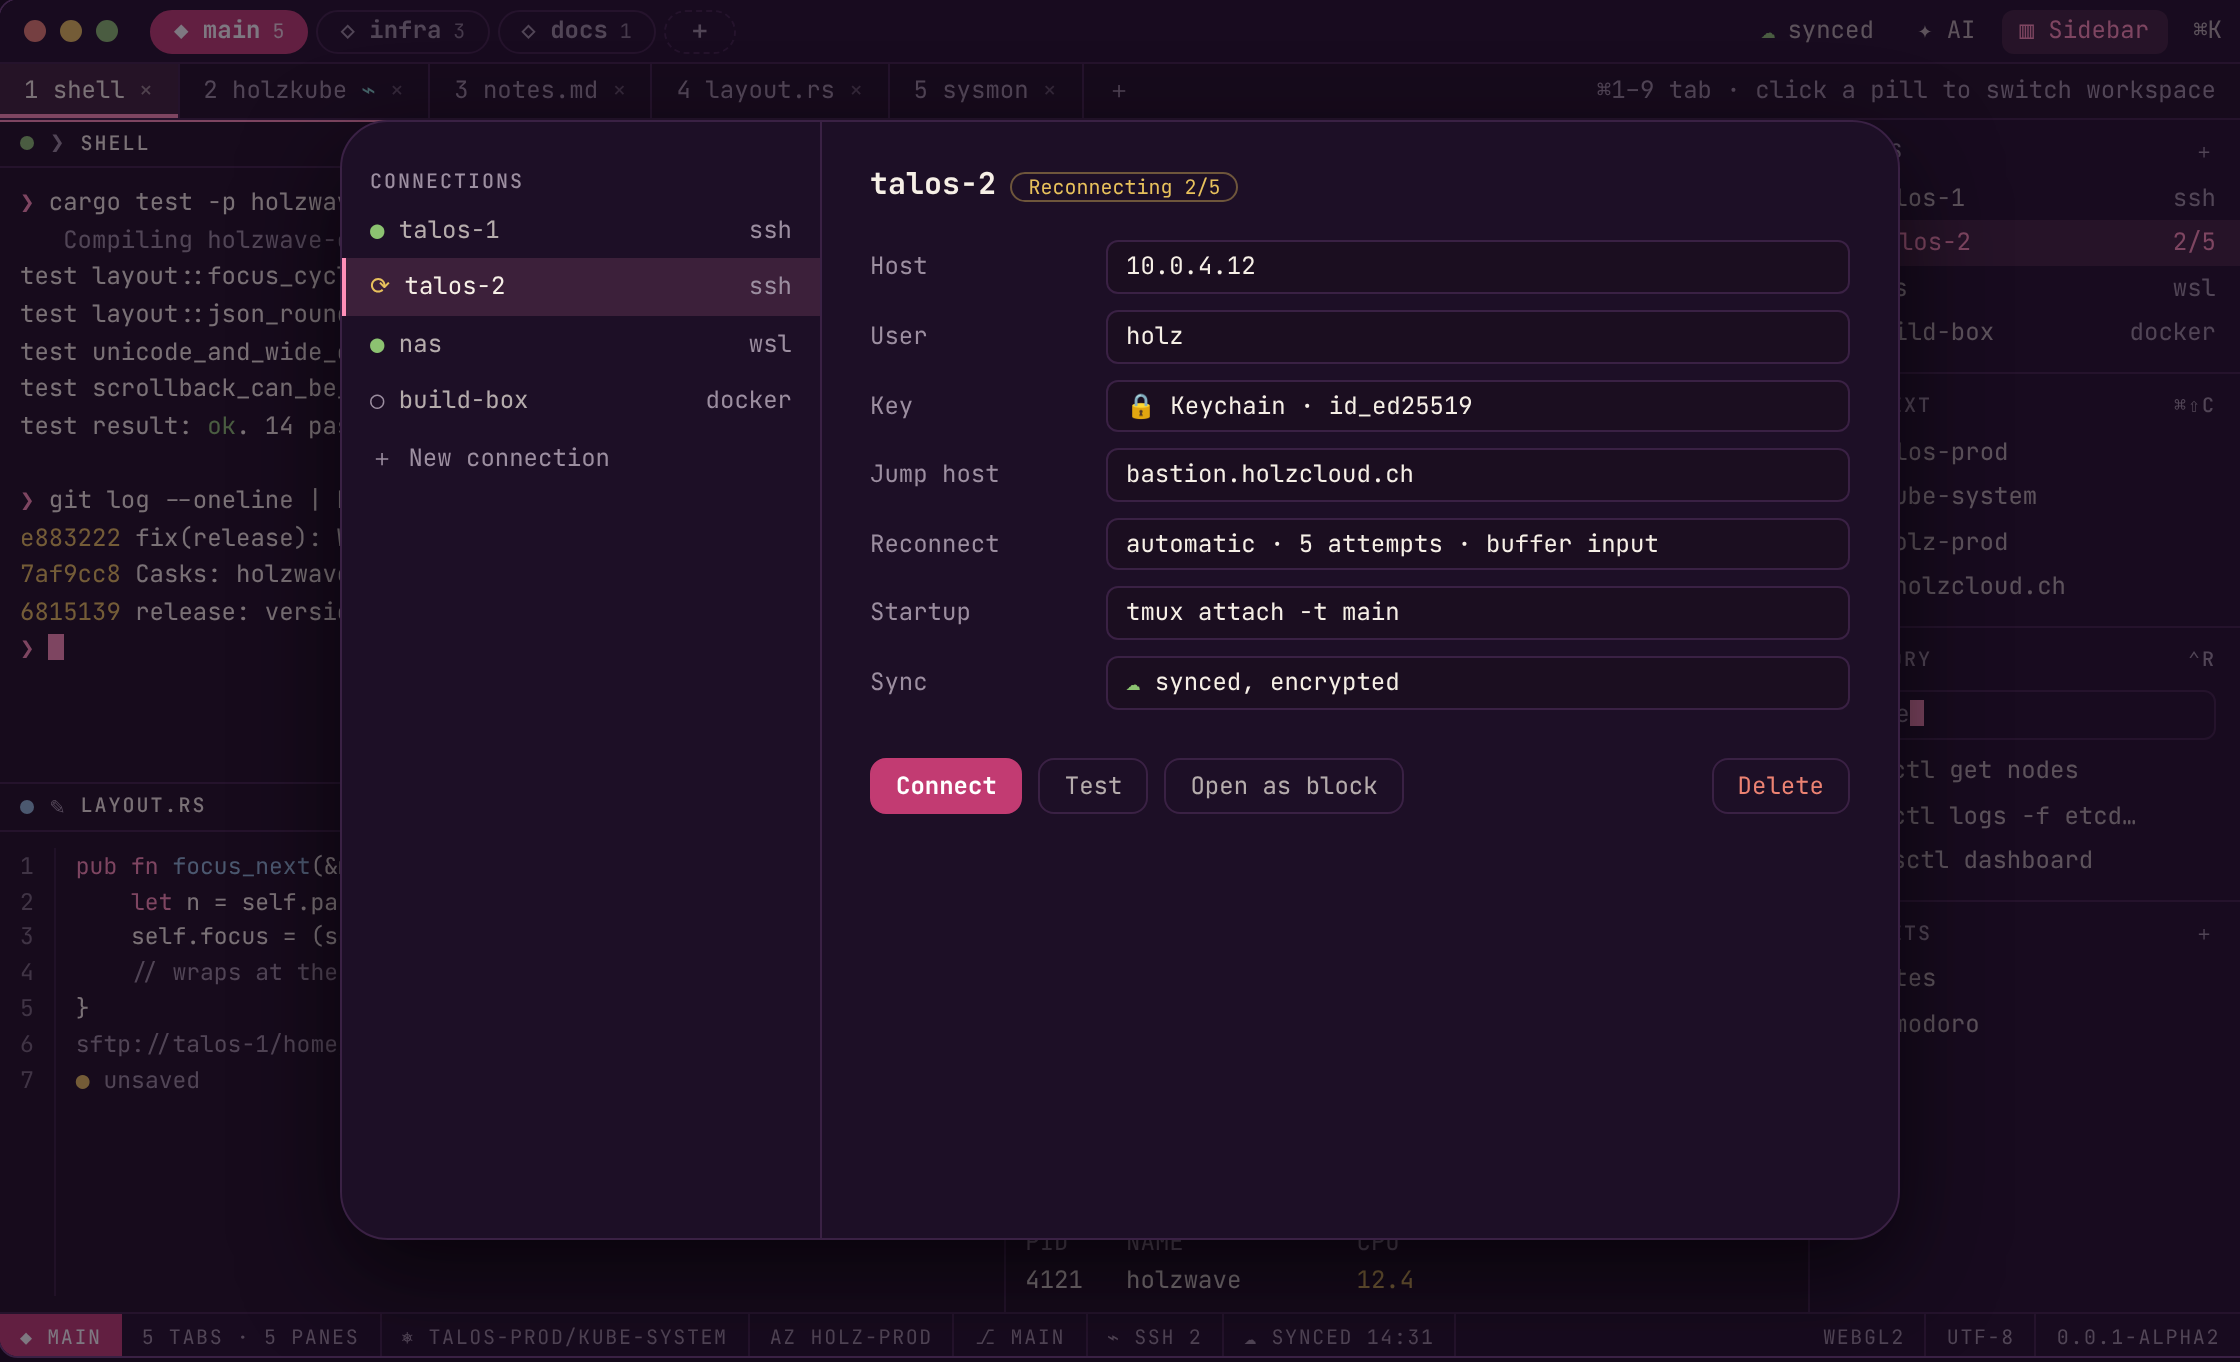
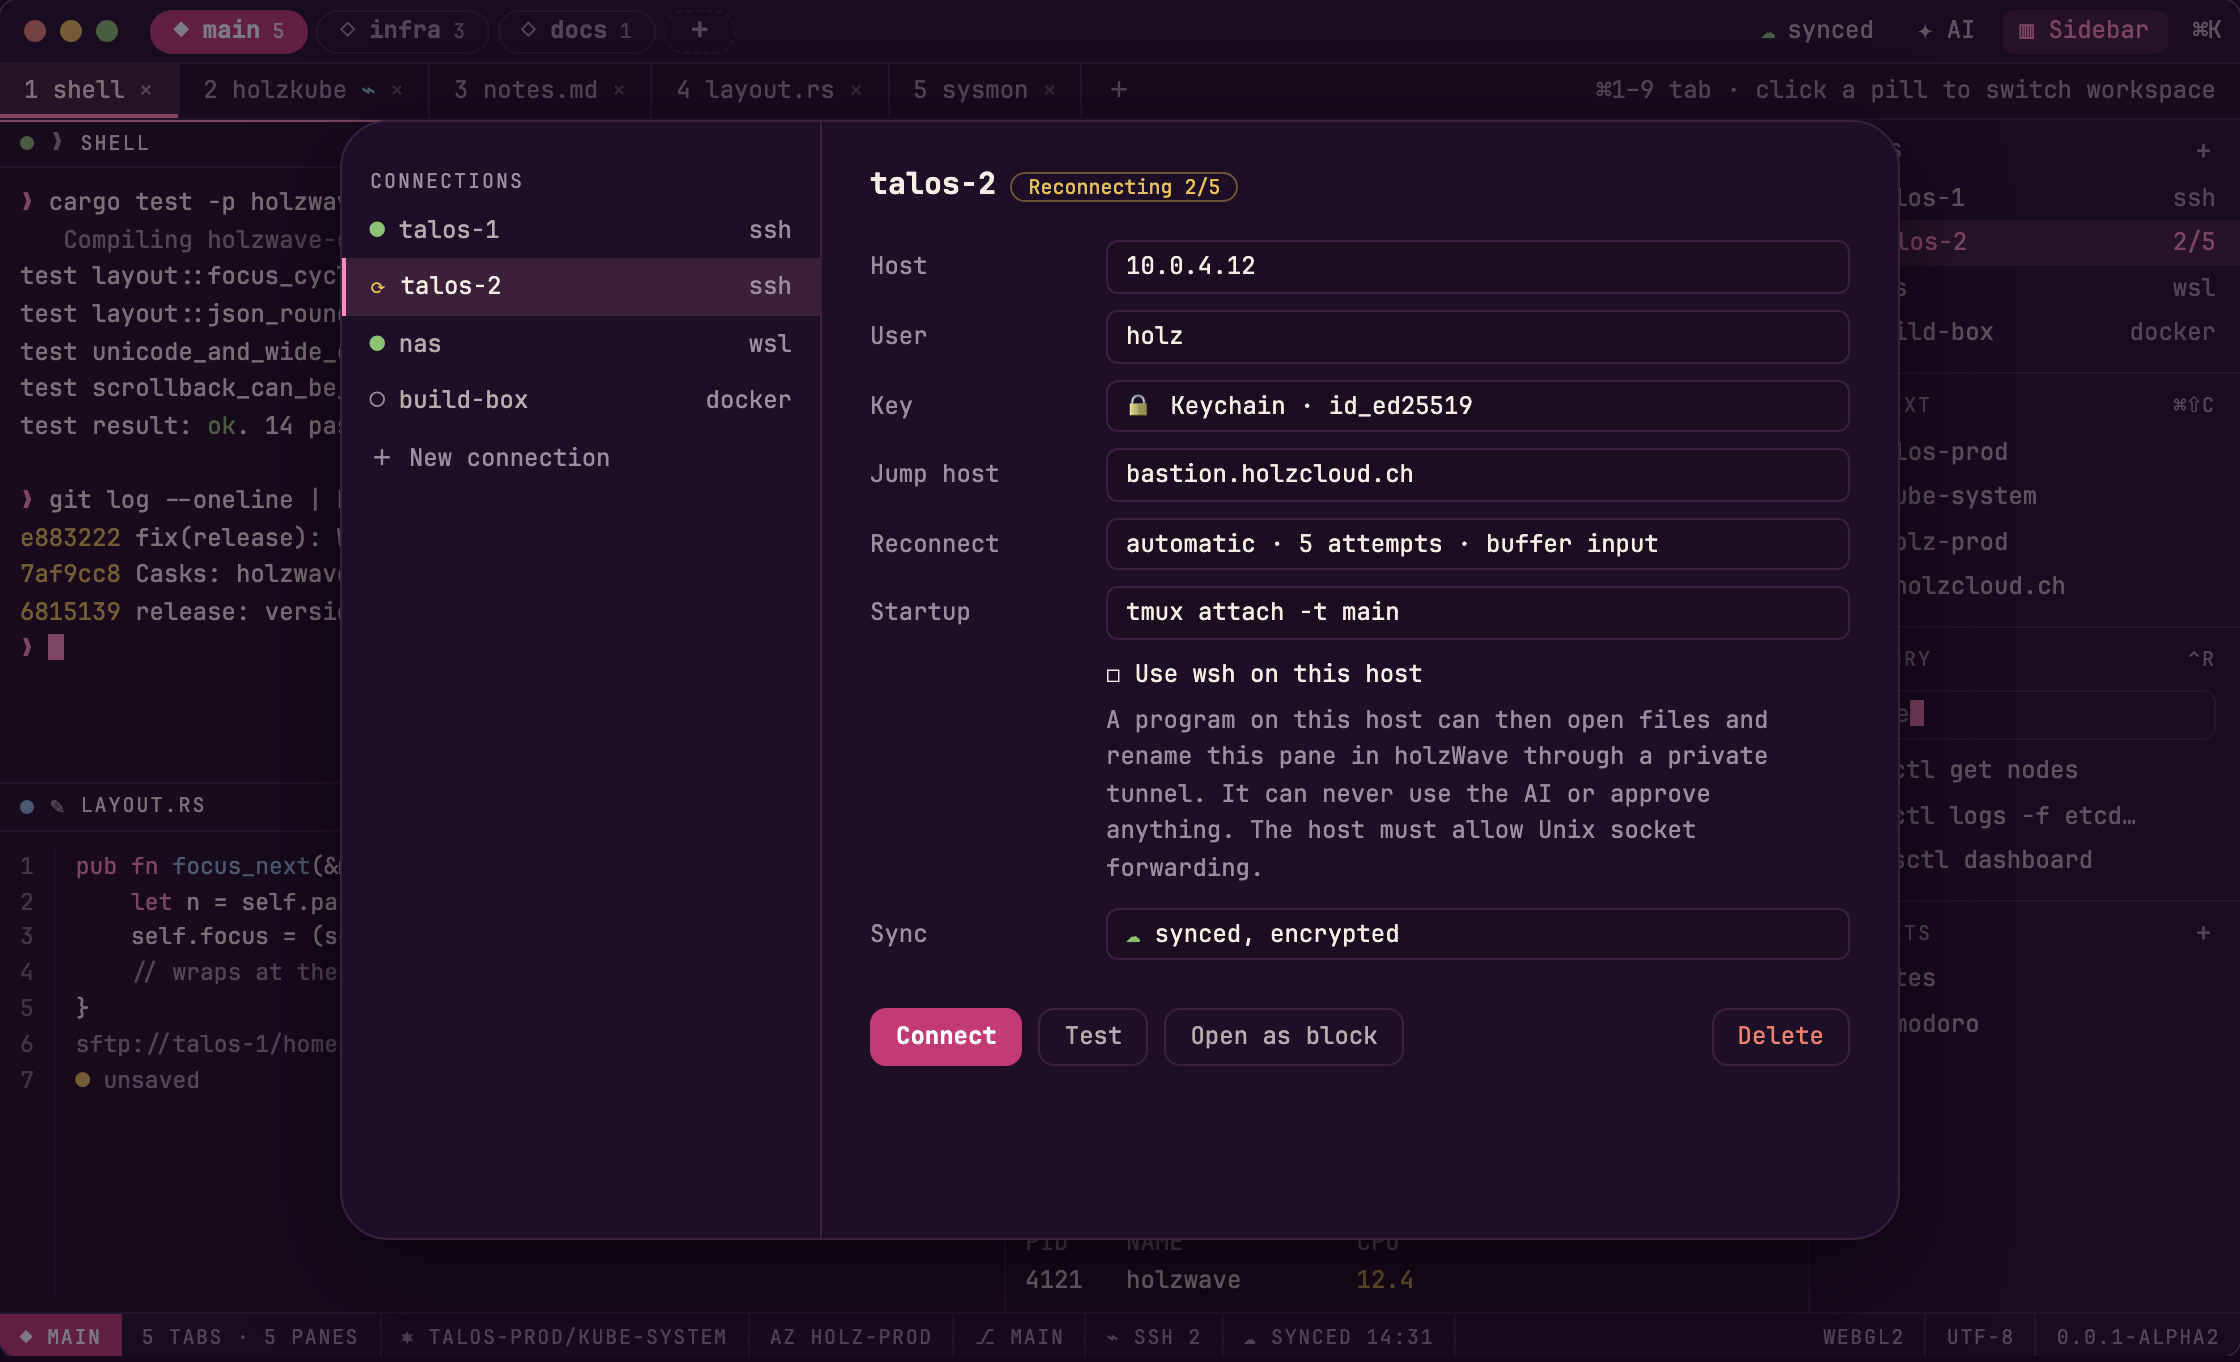
docs(06.1-12): the design record, the design page, the image and the config document gain the wsh row
Updated together: docs/design.md (6.3, 6.8), the conn view of the design page, connections.png rendered
from it (only the conn view changes in the markup dump), and the connections.json field table and example.

Claude-Session: https://claude.ai/code/session_0131Y2UoT3m3QMiRtq78S4Lz

diff --git a/docs/design/haarlinie-voll.html b/docs/design/haarlinie-voll.html
@@ -803,7 +803,7 @@ const ovl={
  conn:`<div class="scrim"></div><div class="ov float modal" style="left:170px;top:60px;width:780px;height:560px;display:flex;overflow:hidden">
   <div style="width:240px;border-right:1px solid var(--edge);padding:16px 0"><div class="grp lbl">Connections</div><div class="it"><span><span class="ok">●</span> talos-1</span><span class="dim">ssh</span></div><div class="it on"><span><span class="wa">⟳</span> talos-2</span><span class="dim">ssh</span></div><div class="it"><span><span class="ok">●</span> nas</span><span class="dim">wsl</span></div><div class="it"><span><span class="dim">○</span> build-box</span><span class="dim">docker</span></div><div class="it"><span class="dim">＋ New connection</span></div></div>
   <div class="fill" style="padding:20px 24px"><b style="font-size:15px">talos-2</b> <span class="chip w">Reconnecting 2/5</span>
-   <div style="height:12px"></div><div class="field"><span class="dim">Host</span><span class="v">10.0.4.12</span></div><div class="field"><span class="dim">User</span><span class="v">holz</span></div><div class="field"><span class="dim">Key</span><span class="v"><span class="ok">🔒</span> Keychain · id_ed25519</span></div><div class="field"><span class="dim">Jump host</span><span class="v">bastion.holzcloud.ch</span></div><div class="field"><span class="dim">Reconnect</span><span class="v">automatic · 5 attempts · buffer input</span></div><div class="field"><span class="dim">Startup</span><span class="v">tmux attach -t main</span></div><div class="field"><span class="dim">Sync</span><span class="v"><span class="ok">☁</span> synced, encrypted</span></div>
+   <div style="height:12px"></div><div class="field"><span class="dim">Host</span><span class="v">10.0.4.12</span></div><div class="field"><span class="dim">User</span><span class="v">holz</span></div><div class="field"><span class="dim">Key</span><span class="v"><span class="ok">🔒</span> Keychain · id_ed25519</span></div><div class="field"><span class="dim">Jump host</span><span class="v">bastion.holzcloud.ch</span></div><div class="field"><span class="dim">Reconnect</span><span class="v">automatic · 5 attempts · buffer input</span></div><div class="field"><span class="dim">Startup</span><span class="v">tmux attach -t main</span></div><div class="field"><span></span><span>☐ Use wsh on this host</span></div><div class="dim" style="margin:0 0 6px 118px">A program on this host can then open files and rename this pane in holzWave through a private tunnel. It can never use the AI or approve anything. The host must allow Unix socket forwarding.</div><div class="field"><span class="dim">Sync</span><span class="v"><span class="ok">☁</span> synced, encrypted</span></div>
    <div class="row" style="gap:8px;margin-top:20px"><span class="btn p">Connect</span><span class="btn">Test</span><span class="btn">Open as block</span><span class="btn" style="margin-left:auto;color:var(--danger)">Delete</span></div></div></div>`,
  settings:`<div class="scrim"></div><div class="ov float modal" style="left:170px;top:50px;width:780px;height:580px;display:flex;overflow:hidden">
   <div style="width:190px;border-right:1px solid var(--edge);padding:16px 0"><div class="it on"><span>Appearance</span></div><div class="it"><span>Terminal</span></div><div class="it"><span>Shortcuts</span></div><div class="it"><span>Accessibility</span></div><div class="it"><span>Sync</span></div><div class="it"><span>AI</span></div><div class="it"><span>Integrations</span></div><div class="it"><span>Privacy</span></div></div>

diff --git a/docs/design.md b/docs/design.md
@@ -218,7 +218,7 @@ Each view is a state of the same window. Overlays use the 24 px radius and the s
 | New block | ![](design/new-block.png) | block picker with roadmap phases: shell, SSH, WSL, Docker, previews, editor, Kubernetes, Talos, Azure, GAM7, monitor, history |
 | Search | ![](design/search.png) | scrollback search bar in the pane, hits marked, the current hit solid |
 | Copy mode | ![](design/copy-mode.png) | keyboard selection, hint letters on hashes and paths, a solid status line with the keys |
-| Connections | ![](design/connections.png) | list and form: host, user, key from the OS keychain, jump host, reconnect policy, startup command |
+| Connections | ![](design/connections.png) | list and form: host, user, key from the OS keychain, jump host, reconnect policy, startup command, use wsh on this host |
 | Settings | ![](design/settings.png) | themes (built-in and custom), font, UI scale, accessibility as `System / On / Off` |
 | Shortcuts | ![](design/shortcuts.png) | the key binding editor, see 6.4 |
 | Previews | ![](design/previews.png) | file browser (local and SFTP) with image, PDF and video panes, see 6.5 |
@@ -331,6 +331,12 @@ While a connection is down the pane screen says why on a line of its own, in the
 (up to 64 KiB) and sent after the connection is back. A failure that retrying cannot cure (a refused login, a changed host
 key) leaves the pane open with the reason; Enter tries again. Every connection has an entry in the palette
 (`Connect: Name (ssh)`) and in the connection manager (`Connections…`), which is the Connections view of 6.3.
+
+The Connections form of an SSH connection ends with one checkbox row, `Use wsh on this host`, unchecked by default, and
+under it a dim note in the form's hint style: "A program on this host can then open files and rename this pane in
+holzWave through a private tunnel. It can never use the AI or approve anything. The host must allow Unix socket
+forwarding." The checkbox is the same row as `Remove the saved password` (a box and its words, no colour cue). A host
+that is not ticked gets no tunnel, no wrapped shell and no socket. WSL and Docker connections do not show the row.
 
 ### Candidates considered
 

diff --git a/docs/config.md b/docs/config.md
@@ -392,7 +392,7 @@ operating system's keychain under the service `ch.holzcloud.holzwave` and the ac
   "items": [
     { "id": "talos", "name": "Talos", "kind": "ssh", "host": "10.0.4.12", "port": 22, "user": "holz",
       "auth": "key", "key_path": "~/.ssh/id_ed25519", "jump": "bastion", "startup": "tmux attach -t main",
-      "reconnect_attempts": 5, "reconnect_delay_secs": 3 }
+      "reconnect_attempts": 5, "reconnect_delay_secs": 3, "wsh": true }
   ]
 }
 ```
@@ -407,6 +407,7 @@ operating system's keychain under the service `ch.holzcloud.holzwave` and the ac
 | `startup` | a line typed into the shell once it runs |
 | `reconnect_attempts`, `reconnect_delay_secs` | how often and how fast a lost connection is made again; 0 attempts does not reconnect |
 | `shell` | Docker only: the shell to start; empty is `sh` |
+| `wsh` | SSH only. `true` allows the `wsh` tunnel on this connection: a program on the host can open files and rename the pane through it, and never use the AI or approve anything. Default `false`, and then it is left out of the file; WSL and Docker connections with it are dropped on load |
 
 A connection that does not validate is dropped when the file is loaded, with a note in the log, and the original is kept
 as `connections.json.bad`. A host key that is not in `known_hosts` is learned on first use; a key that **differs** from a
